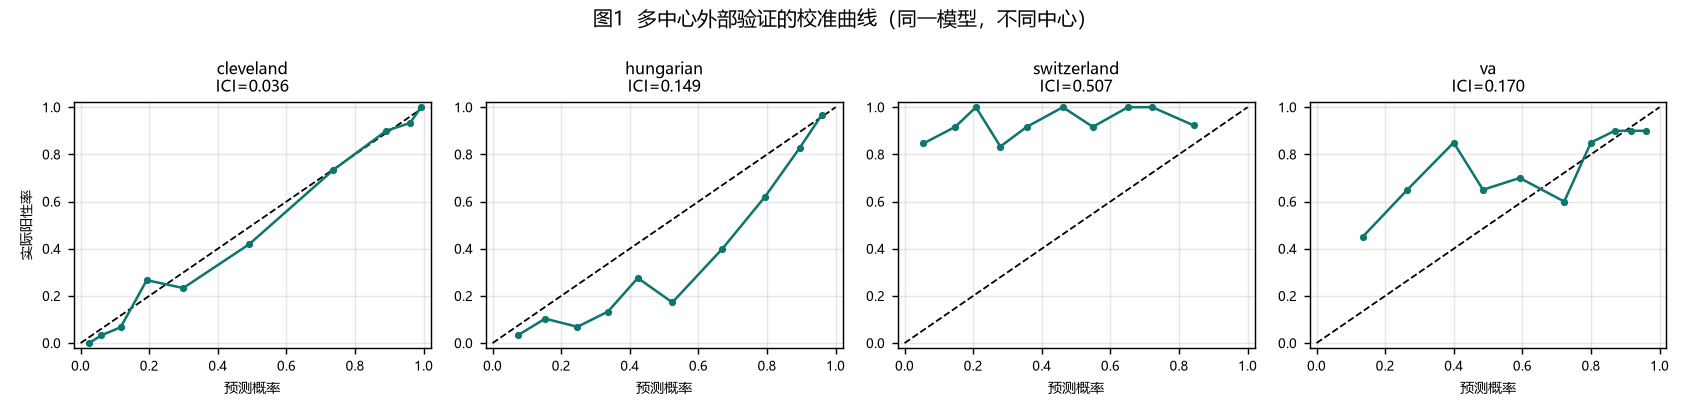
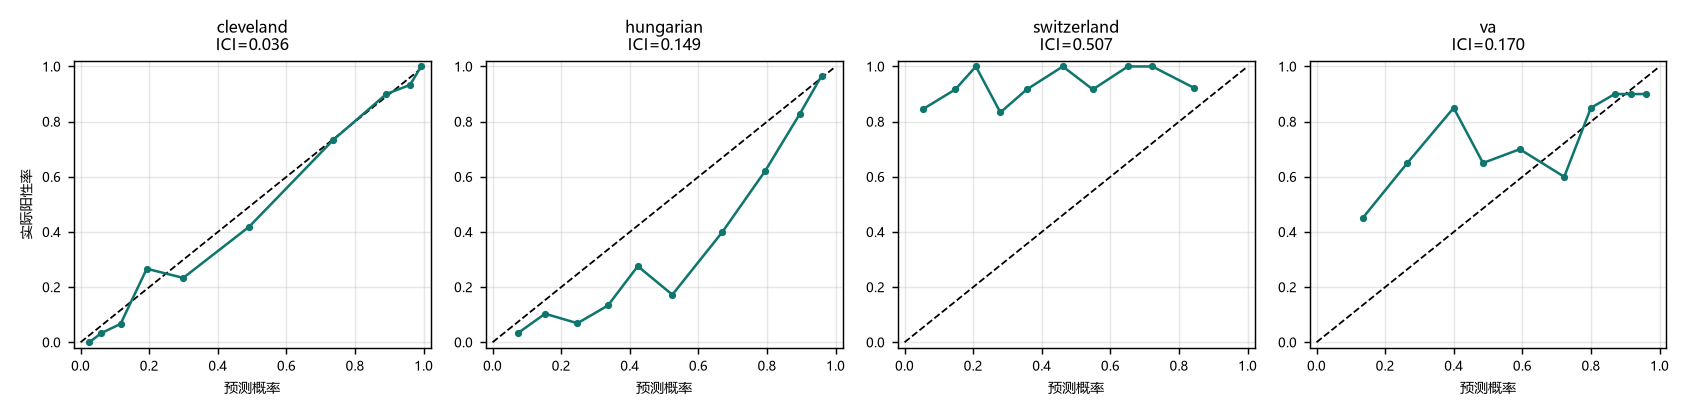
fix(figures): 移除图内标题，避免与论文图注重复；同步重跑基准结果

diff --git a/examples/run_benchmark.py b/examples/run_benchmark.py
@@ -231,7 +231,7 @@ def main() -> int:
     axes[0].set_ylabel("实际阳性率", fontsize=8)
     for ax in axes:
         ax.set_xlabel("预测概率", fontsize=8)
-    fig.suptitle("图1  多中心外部验证的校准曲线（同一模型，不同中心）", fontsize=11)
+    # fig.suptitle("图1  多中心外部验证的校准曲线（同一模型，不同中心）", fontsize=11)
     fig.tight_layout()
     fig.savefig(out / "fig1_calibration_centers.png")
     plt.close(fig)
@@ -253,7 +253,7 @@ def main() -> int:
     for ax in axes:
         ax.grid(axis="y", alpha=0.3)
         ax.tick_params(labelsize=8)
-    fig.suptitle("图2  同一模型在四个中心的判别力与校准", fontsize=11)
+    # fig.suptitle("图2  同一模型在四个中心的判别力与校准", fontsize=11)
     fig.tight_layout()
     fig.savefig(out / "fig2_centers_auc_ici.png")
     plt.close(fig)
@@ -266,7 +266,7 @@ def main() -> int:
     ax.axhline(0, color="gray", ls=":", lw=1.2, label="全部不干预")
     ax.set_xlabel("阈值概率")
     ax.set_ylabel("净收益")
-    ax.set_title("图3  决策曲线分析")
+    # ax.set_title("图3  决策曲线分析")
     ax.legend(fontsize=8)
     ax.grid(alpha=0.3)
     fig.tight_layout()
@@ -281,7 +281,7 @@ def main() -> int:
                label=f"不拒识 风险={ab['base_risk']:.3f}")
     ax.set_xlabel("覆盖率")
     ax.set_ylabel("错误率")
-    ax.set_title(f"图4  选择性预测（AURC={ab['aurc']:.3f}）")
+    ax.set_title("")
     ax.legend(fontsize=8)
     ax.grid(alpha=0.3)
     fig.tight_layout()
